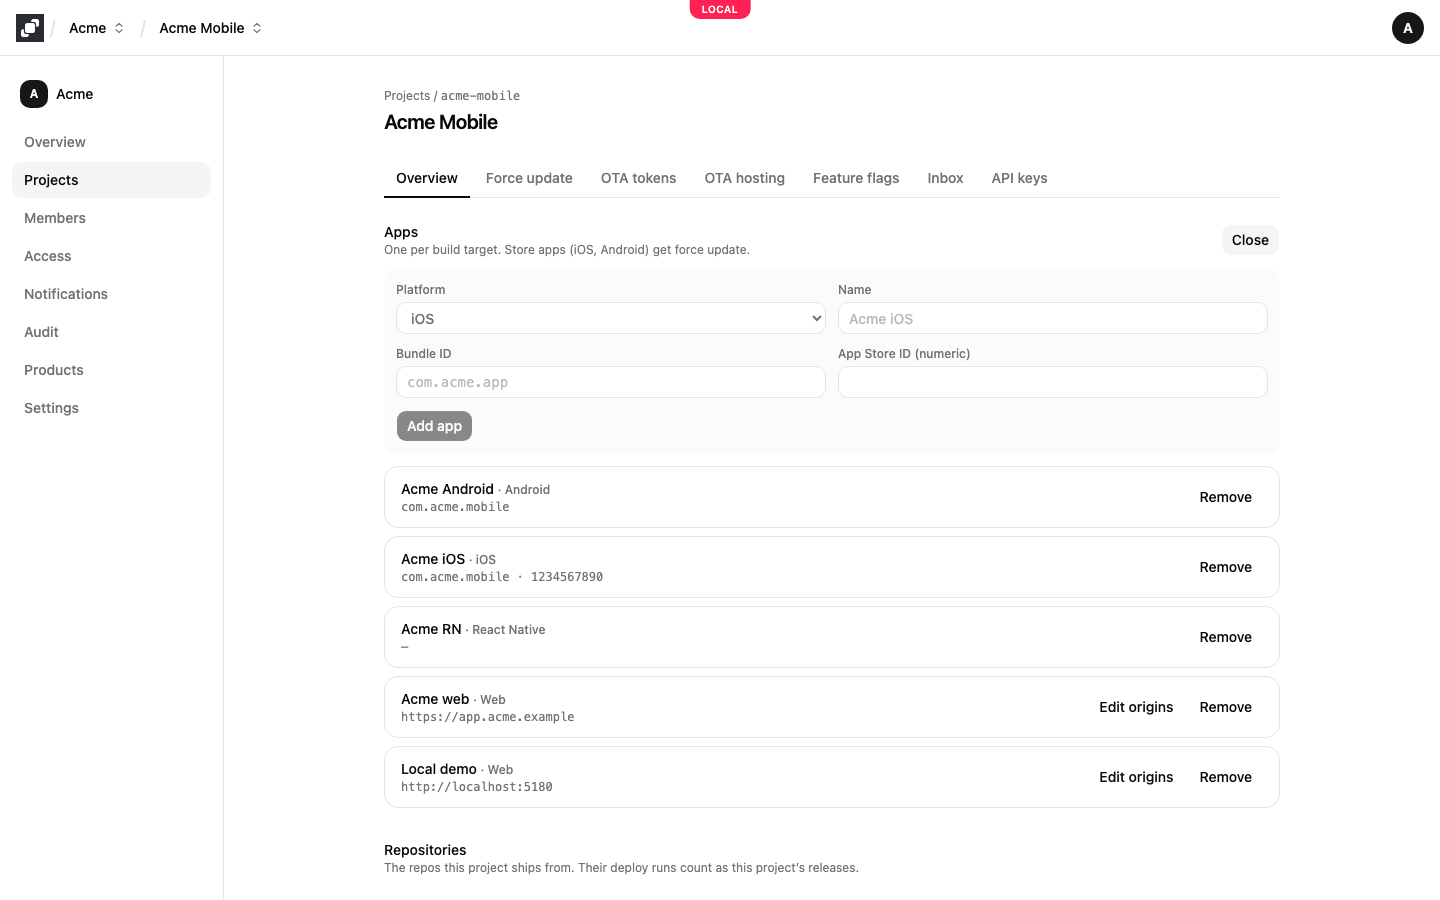
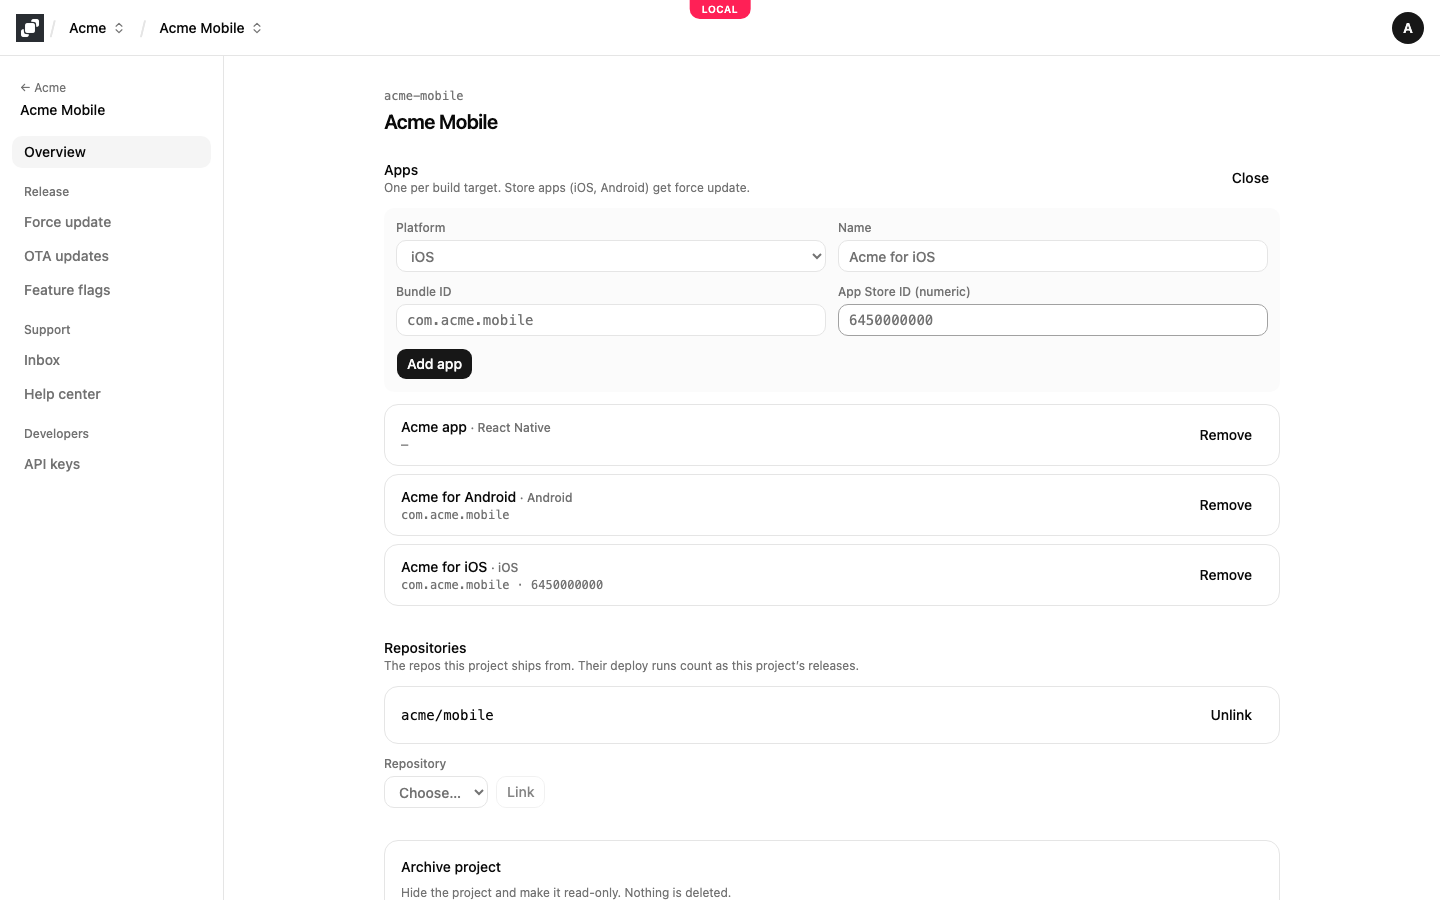
docs(customer): retake the screenshots that show the navigation
The getting-started, deploy-governance and hosted-OTA screenshots showed the
old flat sidebar and project tabs. They are retaken from a local run with
the grouped sidebars, the Deploys name, the grouped Products page and OTA
updates with its tabs, and Home gets its own screenshot in the setup guide.

diff --git a/docs/customer/start/workspace-and-projects.md b/docs/customer/start/workspace-and-projects.md
@@ -29,6 +29,8 @@ On the sign-up page, enter your name, email and a password of at least 8 charact
 
 A new account has no workspace, so Mocco asks you to create your first one. Give it a name, usually your company or team, and choose **Create workspace**. You become its owner, and Mocco opens its **Home**: the approvals waiting for your team in every product (a flag change in a protected environment, a raised minimum app version, a release on a protected OTA channel), the latest entries of the audit log, and your projects. Each waiting approval links to the screen where you approve it.
 
+![Home: a channel rule change and a flag change waiting for approval, the latest audit entries, and the projects](./images/home.png)
+
 ![Create a workspace: the workspace name and Create workspace](./images/create-workspace.png)
 
 You can belong to several workspaces. To create another one or switch between them, open the workspace menu next to the Mocco logo in the top bar and choose **New workspace** or the workspace you want. The workspace's **Settings** page renames it, and an owner can delete it there.

diff --git a/docs/customer/start/overview.md b/docs/customer/start/overview.md
@@ -4,7 +4,7 @@ description: The Mocco products you can use today — deploy governance, OTA and
 type: guide
 status: active
 created: 2026-10-02
-updated: 2026-10-02
+updated: 2026-10-04
 confidence: high
 owner: andrea
 tags: [customer, getting-started, overview, guide]
@@ -25,7 +25,7 @@ Your team works in a **workspace**. Inside it, a **project** is one product you 
 
 You turn products on and off on the workspace's **Products** page. Deploy governance is always on.
 
-![The Products page: deploy governance always on, the other products with Turn on and Turn off, and the ones still to come marked Coming soon](./images/products.png)
+![The Products page: products grouped under Release and Support, deploy governance always on, the others with Turn on and Turn off, and the ones still to come listed under On the roadmap](./images/products.png)
 
 ## Deploy governance
 

diff --git a/docs/customer/governance/overview.md b/docs/customer/governance/overview.md
@@ -35,7 +35,7 @@ Open the workspace's **Deploys** page. With no repositories yet, it shows **Conn
 
 Back in Mocco, each repository the app can see is listed under **Add a repository from** your account; choose **Add** next to it. It then appears under **Connected repositories**.
 
-![The workspace Overview page: a connected repository and its watched branch](./images/repositories.png)
+![The workspace Deploys page: two connected repositories and their watched branches](./images/repositories.png)
 
 Each connected repository has a watched branch, its default branch unless you change it. Type the branch and choose **Save**. Once a watched branch is saved, **Commits** lists the commits Mocco has synced from it, newest first, and **Load more** shows older ones. Each commit opens its own page.
 

diff --git a/docs/customer/ota/hosted-updates.md b/docs/customer/ota/hosted-updates.md
@@ -22,7 +22,7 @@ Mocco can serve your React Native app's over-the-air updates itself. The app kee
 
 On the project's **Overview** page, add your app with the platform **React Native**. Then open **OTA updates** (the **Hosted by Mocco** tab) and choose **Host OTA updates**. Mocco shows the app's manifest URL and the `expo.updates` block for `app.json`.
 
-![OTA updates, Hosted by Mocco: the manifest URL, certificates, channels and releases](./images/hosting-overview.png)
+![OTA updates, Hosted by Mocco: the manifest URL with the app.json block, and an active signing certificate](./images/hosting-overview.png)
 
 In your app's repository, run:
 
